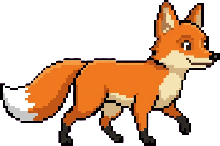
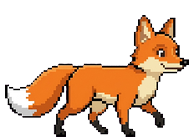
Remove flowers; brighter sunlit forest background; fix fox walk smoothness (uniform frames, no hop)

Changed region(s): [[0.0, 0.0, 1.0, 1.0]]

diff --git a/index.html b/index.html
@@ -37,18 +37,9 @@
   /* real NBP forest as the grounded backdrop, with a dark scrim so the UI stays legible */
   #forest{position:fixed;inset:0;z-index:-2;pointer-events:none;
     background:
-      linear-gradient(180deg,rgba(7,13,10,.88) 0%,rgba(7,13,10,.52) 30%,rgba(7,13,10,.42) 58%,rgba(7,13,10,.72) 100%),
+      linear-gradient(180deg,rgba(8,17,11,.74) 0%,rgba(8,17,11,.5) 28%,rgba(8,17,11,.44) 58%,rgba(8,17,11,.66) 100%),
       url(img/forest-bg.jpg) center top/cover fixed;}
   #pollen{position:fixed;inset:0;width:100vw;height:100vh;z-index:-1;pointer-events:none;opacity:.55}
-  /* wildflowers framing the column borders/corners — anchored in the edge gutter, clear of card data */
-  #flowers{position:fixed;left:50%;transform:translateX(-50%);top:0;width:100%;max-width:560px;height:100vh;pointer-events:none;z-index:5}
-  #flowers .fl{position:absolute;width:36px;height:auto;filter:drop-shadow(0 2px 3px rgba(0,0,0,.55));opacity:.96}
-  .fl-tr{top:60px;right:-11px;width:42px;transform:rotate(7deg)}
-  .fl-tl{top:250px;left:-12px;width:36px;transform:scaleX(-1) rotate(7deg)}
-  .fl-ml{top:46%;left:-13px;width:33px;transform:scaleX(-1) rotate(5deg)}
-  .fl-mr{top:60%;right:-13px;width:33px;transform:rotate(-5deg)}
-  .fl-bl{bottom:74px;left:-9px;width:44px;transform:scaleX(-1)}
-  .fl-br{bottom:74px;right:-9px;width:44px}
   ::selection{background:rgba(98,193,119,.28);color:#fff}
   a{color:#8fd6a0;text-decoration:none}
 
@@ -400,7 +391,7 @@
   /* ── living pixel fox: ambles along the TOP EDGE of the overview, sits at random ── */
   #fox{position:fixed;z-index:16;pointer-events:none;will-change:left,top;transition:opacity .3s ease}
   #fox.fox-off{opacity:0}
-  .fox-img{display:block;height:46px;width:auto;image-rendering:pixelated;filter:drop-shadow(0 2px 2px rgba(0,0,0,.45))}
+  .fox-img{display:block;height:48px;width:auto;image-rendering:auto;filter:drop-shadow(0 2px 2px rgba(0,0,0,.45))}
   .fox-shadow{position:absolute;left:50%;bottom:-3px;transform:translateX(-50%);width:78%;height:6px;border-radius:50%;
     background:radial-gradient(ellipse at center,rgba(0,0,0,.4),transparent 72%)}
   /* ── file-cabinet sub-tabs (Current / Charts / Predict / News): active tab is stitched to the panel ── */
@@ -436,15 +427,6 @@
 </head>
 <body>
 <div id="forest" aria-hidden="true"></div>
-
-<div id="flowers" aria-hidden="true">
-  <img class="fl fl-tr" src="img/flower-b.png" alt="">
-  <img class="fl fl-tl" src="img/flower-a.png" alt="">
-  <img class="fl fl-ml" src="img/flower-b.png" alt="">
-  <img class="fl fl-mr" src="img/flower-a.png" alt="">
-  <img class="fl fl-bl" src="img/flower-a.png" alt="">
-  <img class="fl fl-br" src="img/flower-b.png" alt="">
-</div>
 
 <canvas id="pollen" aria-hidden="true"></canvas>
 
@@ -1114,7 +1096,7 @@ boot();
 (function(){
   const fox=document.getElementById('fox'), img=document.getElementById('fox-img'); if(!fox||!img) return;
   const WALK=['img/fox-walk-a.png','img/fox-walk-e.png','img/fox-walk-b.png','img/fox-walk-d.png','img/fox-walk-c.png'];
-  const BOB=[0,-2.5,-2.5,0,-1.5], SIT='img/fox-sit.png';   // 5-frame walk cycle + per-frame body bounce
+  const SIT='img/fox-sit.png';   // frames are bottom-anchored + uniform size; gait is baked in, no JS lift (keeps feet planted)
   WALK.concat(SIT).forEach(s=>{const p=new Image();p.src=s;});        // preload all frames
   const reduce=matchMedia('(prefers-reduced-motion: reduce)').matches;
   let x=24, dir=1, mode='walk', last=0, stepT=0, frame=0, modeUntil=0, curSrc='';
@@ -1135,9 +1117,9 @@ boot();
     else if(mode==='walk'){
       x+=dir*SPEED*dt;
       if(x>=maxX){x=maxX;dir=-1;} else if(x<=minX){x=minX;dir=1;}
-      if(t-stepT>115){ stepT=t; frame=(frame+1)%WALK.length; }
+      if(t-stepT>135){ stepT=t; frame=(frame+1)%WALK.length; }
       setSrc(WALK[frame]);
-      bob = BOB[frame]||0;                                            // per-frame gait bounce across the 5-frame cycle
+      bob = 0;                                                        // no whole-sprite lift — feet stay on the ground
       if(!modeUntil) modeUntil=t+4000+Math.random()*6000;
       if(t>modeUntil){ mode='sit'; modeUntil=t+3000+Math.random()*5000; }
     } else {                                                          // sitting

diff --git a/HANDOFF.md b/HANDOFF.md
@@ -5,6 +5,20 @@ Resume command: `/ai`. Local: `localhost:8095`. Full design: [ARCHITECTURE.md](A
 
 ## State — Jun 19 2026
 
+### ✓ DONE (Jun 19, session 22) — removed flowers · brighter forest · fox smoothness fix
+(1) **Removed ALL flowers** (CSS `#flowers`/`.fl-*` + the 6-img element + `git rm flower-a/b.png`). He'll re-add
+later as **overhead-view flower BUDS** (top-down), a different style — NOT the side-view sprigs. Don't re-add yet.
+(2) **Background swapped — brighter, less gloomy.** New nano-banana **Pro** sunlit forest (golden light, fresh
+greens, mossy path) replaces the gloomy misty one (`img/forest-bg.jpg` overwritten). Scrim lightened
+(`.88/.42/.72` → `.74/.5/.44/.66`) so the sunlight shows but UI stays legible (header has its own dark bg; cards are
+opaque). Verified readable.
+(3) **Fox smoothness fix** (he said glitchy). Root cause: the 5 frames had **different canvas sizes** (220×146/156/
+…) so each swap resized + shifted the fox; AND the JS `BOB` lifted the WHOLE sprite (feet off the ground = hopping).
+Fixes: **normalized all 5 walk frames to a uniform 194×140 canvas** (crop→scale to common width→pad bottom-center so
+feet align), set `bob=0` (gait is baked into the bottom-anchored frames, feet stay planted), `image-rendering:auto`
+(frames are LANCZOS-scaled now), cadence 115→135ms, fox height 46→48. Verified: all 5 frames 194×140, no console
+errors, data intact (96 models). Redeploy = `git push`.
+
 ### ✓ DONE (Jun 19, session 21) — tie card → popup; preview panel onto :8095
 (1) **"Best model for…" tie card now opens the bottom-sheet POPUP** (like the model Details) instead of expanding
 inline. `bestCard()` writes each tie to a `TIEMAP` (keyed by use-case label, reset each `renderHome`) + renders
